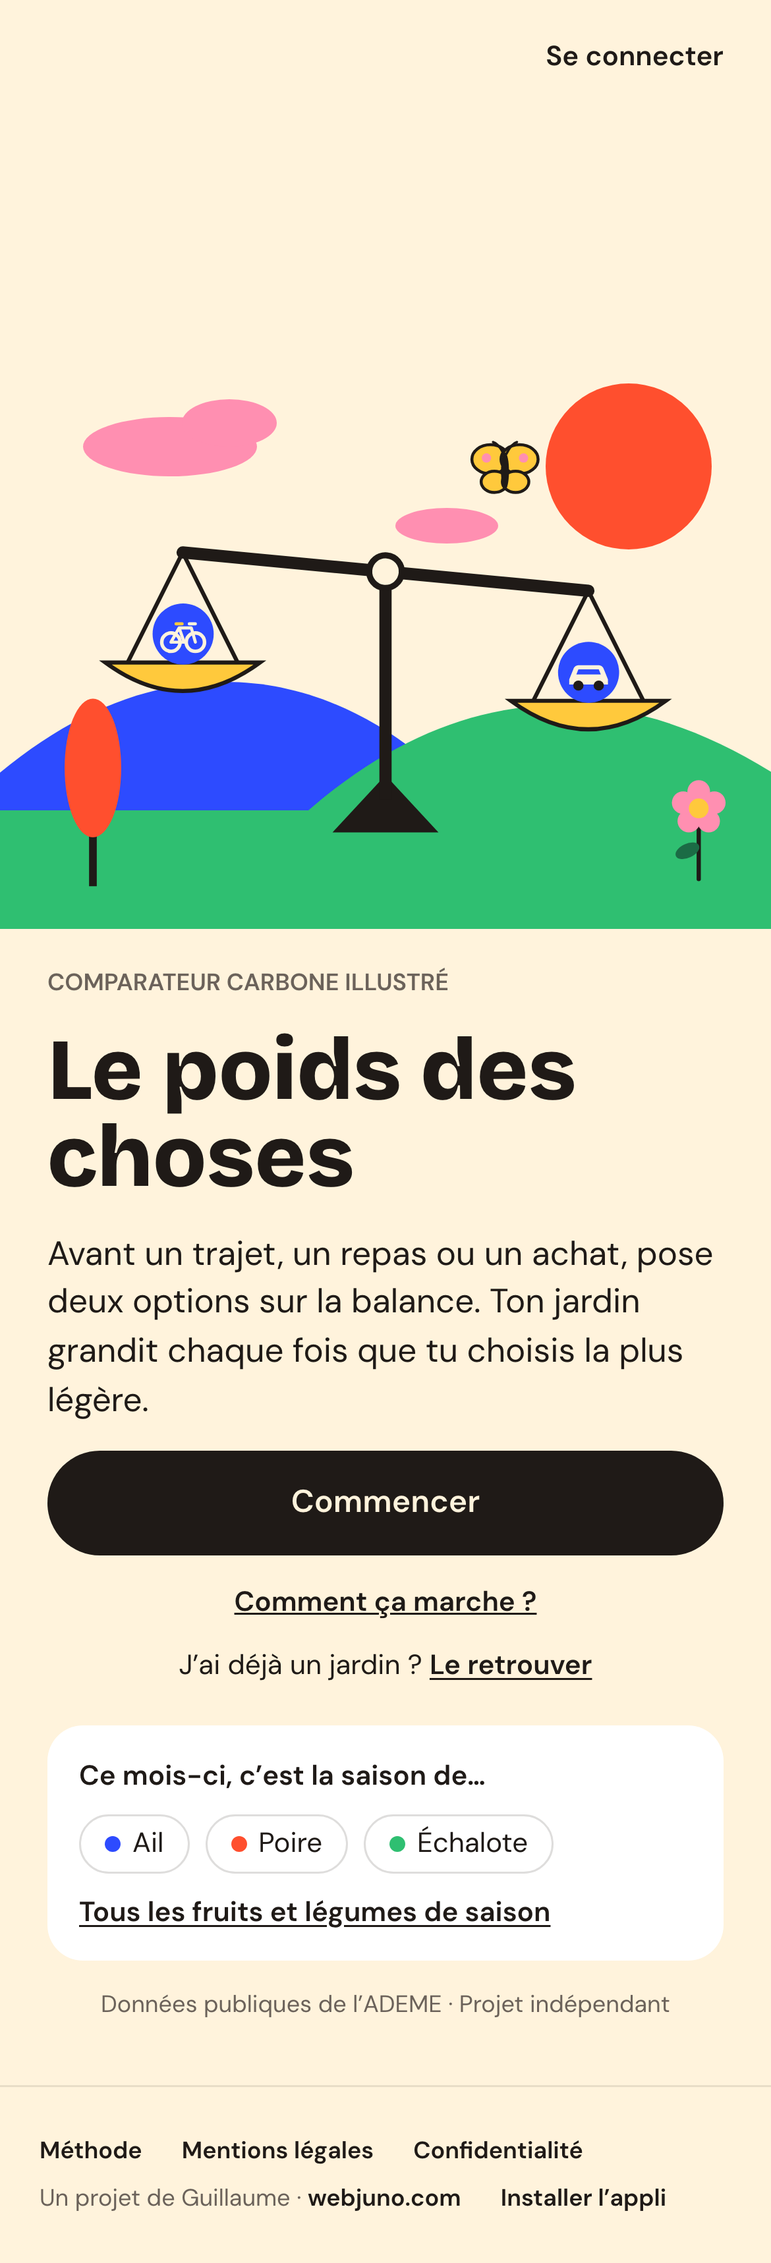
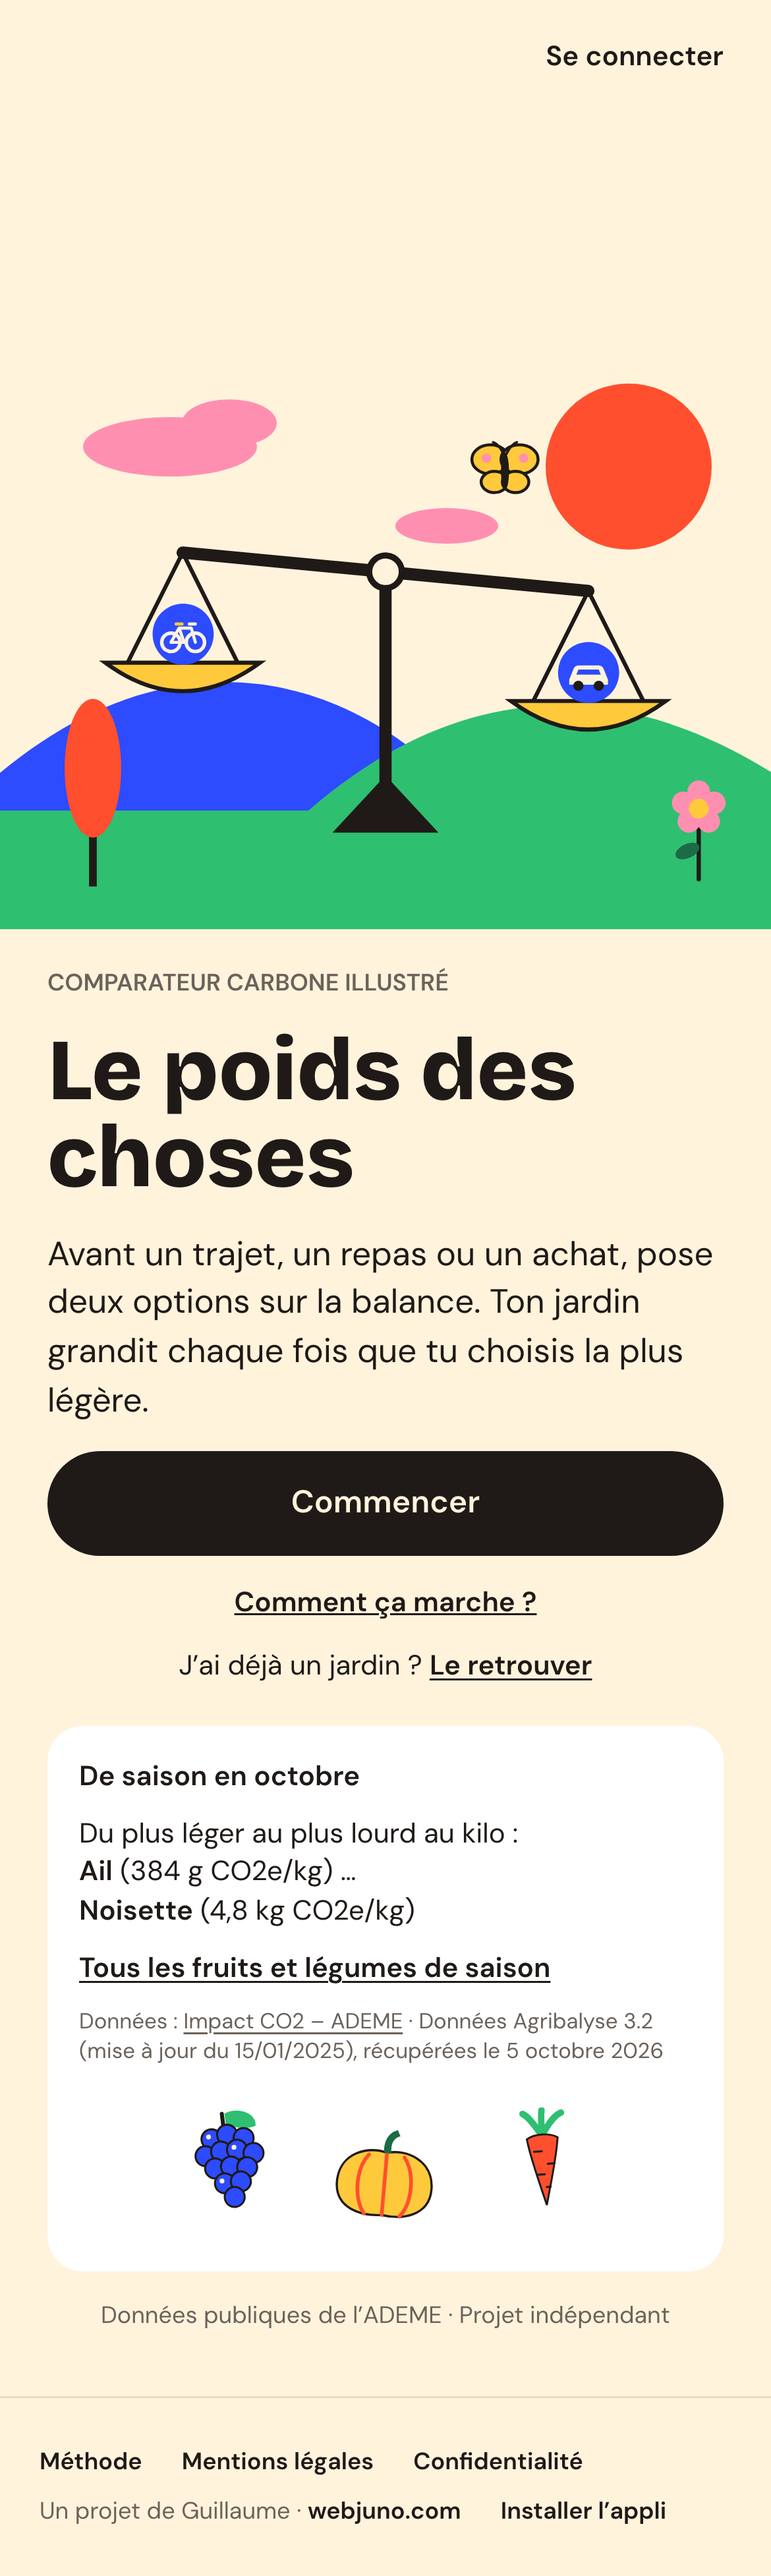
docs: CLAUDE.md, captures de l'accueil et journal de l'encart de saison

diff --git a/CLAUDE.md b/CLAUDE.md
@@ -292,8 +292,18 @@ Prettier, pnpm. Compte facultatif : Cloudflare Pages Functions (`functions/`) et
   l'API (`SEASON_CATEGORIES`, intitulé = nom de l'API avec majuscule, ordre des ids de
   l'API), triés par impact au kg ; puces colorées, pas d'illustration. Les deux mangues
   (avion, bateau) restent telles quelles ; aucune autre provenance (voir
-  /methode#saison). Encart `SeasonTeaser` sur l'accueil et /comparer : les 3 produits les
-  plus légers au kg parmi ceux qui ont une saison (complétés par ceux de toute l'année).
+  /methode#saison). Encart `SeasonTeaser` sur l'accueil et /comparer : « De saison en
+  octobre » puis « Du plus léger au plus lourd au kilo : Ail (384 g CO2e/kg) … Noisette
+  (4,8 kg CO2e/kg) » (`seasonRange` : produits de saison ce mois-ci hors toute l'année,
+  égalité → ordre alphabétique ; `formatPerKilo` = `formatMass` + espaces insécables), lien
+  /saison et `DataCredit`. Fruits et légumes dessinés flottants (`FloatingProduce`,
+  `saison-*.svg` 80×80, pas de cagette) : correspondance `SEASON_DRAWINGS`
+  (`src/lib/saison/drawn.ts`), `drawnForMonth` (de saison ce mois-ci, saison la plus courte
+  d'abord, 5 au plus ; moins de 3 → toute l'année ; aucun → mois le plus proche) ; places,
+  flottement et parallaxe dans `src/lib/geometry/float.ts` (sans chevauchement, testé) ;
+  4-5 à droite dès 28rem de large (requête de conteneur), rangée de 3 en dessous, masqués
+  sous 15rem ; fondu décalé à l'entrée, rebond au toucher, pause onglet caché ou hors écran,
+  immobiles en mouvement réduit ; démo dans /labo.
 - Installation (PWA) : manifeste, icônes, bandeau « Garde ton jardin » sur /jardin
   (Android : invite `beforeinstallprompt` ; iPhone : « Partager, puis Sur l’écran
   d’accueil » ; masqué si installé ou fermé). Accès permanent « Installer l’appli »
